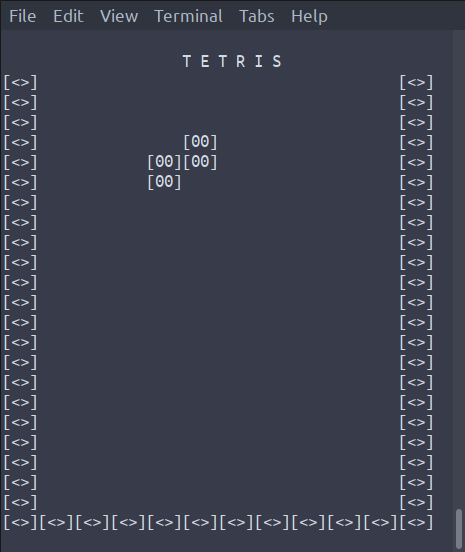
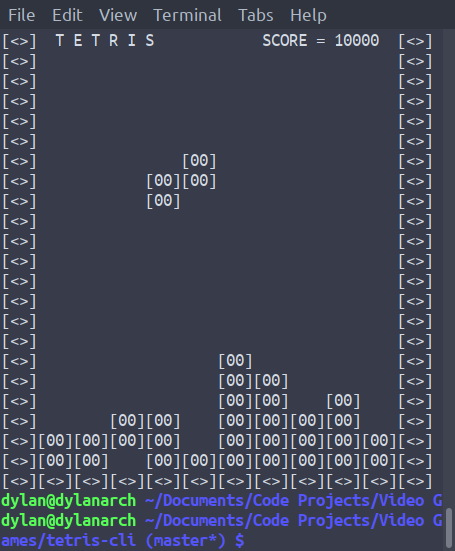
Added scoring and row deletion

diff --git a/src/game.c b/src/game.c
@@ -2,6 +2,7 @@
 #include <stdlib.h>
 #include <unistd.h>
 #include <time.h>
+#include <math.h>
 
 #include <tetromino.h>
 #include <canvas.h>
@@ -13,6 +14,7 @@ char        g_quit;
 canvas_t    g_canvas;
 float       g_fall_spd;
 int         g_fall_key_delay;
+int         g_score = 0;
 
 // Start a new game
 void play() {
@@ -26,7 +28,7 @@ void play() {
      * 
      * thus 40x20
      */
-    g_canvas = init_canvas((10 + 2) * SHAPE_WIDTH, 22 + 2);
+    g_canvas = init_canvas((10 + 2) * SHAPE_WIDTH, 22 + 1);
 
     // Draw a border around the screen
     char border[g_canvas.width * g_canvas.height];
@@ -36,6 +38,7 @@ void play() {
     char *clear_piece, *image_data;
     g_fall_spd = INITIAL_FALL;
     g_fall_key_delay = FALL_KEY_DELAY;
+    g_score = 0;
 
     while(!g_quit) {
         clear_piece = m_get_tetromino_clear_image(g_current_shape);
@@ -46,6 +49,7 @@ void play() {
         image_data = m_get_tetromino_image(g_current_shape);
         draw_image_to_canvas(&g_canvas, 0, 0, g_canvas.width, g_canvas.height, (char *) border);
         draw_image_to_canvas(&g_canvas, SHAPE_WIDTH * (g_current_shape.x - 2), g_current_shape.y - 2, SHAPE_WIDTH * 5, 5, image_data);
+        draw_score();
 
         print_canvas(g_canvas);
 
@@ -77,11 +81,13 @@ void update_piece() {
             if(can_move(DOWN))
                 g_current_shape.y++;
             else {
-                // Shape has landed
+                // Shape has landed                
                 // Save current shape
                 char *image_data = m_get_tetromino_image(g_current_shape);
                 draw_image_to_canvas(&g_canvas, SHAPE_WIDTH * (g_current_shape.x - 2), ((int) g_current_shape.y) - 2, SHAPE_WIDTH * 5, 5, image_data);
                 free(image_data);
+
+                check_rows();
 
                 // Select new shape
                 g_current_shape = select_shape();
@@ -102,9 +108,41 @@ void update_piece() {
         draw_image_to_canvas(&g_canvas, SHAPE_WIDTH * (g_current_shape.x - 2), ((int) g_current_shape.y) - 2, SHAPE_WIDTH * 5, 5, image_data);
         free(image_data);
 
+        check_rows();
+
         // Select new shape
         g_current_shape = select_shape();
         g_fall_key_delay = FALL_KEY_DELAY;
+    }
+}
+
+// Check for rows and delete them if full
+void check_rows() {
+    for(int y = 2; y < g_canvas.height - 1; y++) {
+        char row_full = 1;
+
+        for(int x = 4; x < g_canvas.width - 4; x++) {
+            if(g_canvas.draw_buffer[y * g_canvas.width + x] == ' ') {
+                row_full = 0;
+                break;
+            }
+        }
+
+        if(row_full) {                                              // YAY POINTS!!
+            // Update game speed and score
+            g_score++;
+            g_fall_spd += FALL_INC;
+
+            // Clear row
+            for(int x = 4; x < g_canvas.width - 4; x++)
+                g_canvas.draw_buffer[y * g_canvas.width + x] = ' ';
+
+            // bring all other rows down
+            for(int y2 = y; y2 >= 2; y2--) {
+                for(int x = 4; x < g_canvas.width - 4; x++)
+                    g_canvas.draw_buffer[y2 * g_canvas.width + x] = g_canvas.draw_buffer[(y2 - 1) * g_canvas.width + x];
+            }
+        }
     }
 }
 
@@ -233,7 +271,7 @@ char can_move(direction_t dir) {
 tetromino_t select_shape() {
     tetromino_t new_shape;
     new_shape.x = 5;
-    new_shape.y = 2;
+    new_shape.y = 3;
     new_shape.shape = rand() % 7;
 
     for(int i = 0; i < 4; i++) {
@@ -244,22 +282,46 @@ tetromino_t select_shape() {
     return new_shape;
 }
 
+void draw_score() {
+    g_canvas.draw_buffer[29] = 'S';
+    g_canvas.draw_buffer[30] = 'C';
+    g_canvas.draw_buffer[31] = 'O';
+    g_canvas.draw_buffer[32] = 'R';
+    g_canvas.draw_buffer[33] = 'E';
+    g_canvas.draw_buffer[35] = '=';
+
+    // Get the first 5 digits of the score
+    char digits[5];
+    int score = g_score;
+
+    for(int i = 0; i < 5; i++) {
+        digits[i] = (score % 10) + '0';
+        score /= 10;
+    }
+    
+    g_canvas.draw_buffer[37] = digits[4];
+    g_canvas.draw_buffer[38] = digits[3];
+    g_canvas.draw_buffer[39] = digits[2];
+    g_canvas.draw_buffer[40] = digits[1];
+    g_canvas.draw_buffer[41] = digits[0];
+}
+
 void setup_border(char *border, int size) {
     for(int i = 0; i < g_canvas.width * g_canvas.height; i++)
         border[i] = -1;
-    border[20] = 'T';
-    border[22] = 'E';
-    border[24] = 'T';
-    border[26] = 'R';
-    border[28] = 'I';
-    border[30] = 'S';
+    border[6] = 'T';
+    border[8] = 'E';
+    border[10] = 'T';
+    border[12] = 'R';
+    border[14] = 'I';
+    border[16] = 'S';
     for(int i = 0; i < g_canvas.width; i += 4) {
         border[(g_canvas.height - 1) * g_canvas.width + i] = '[';
         border[(g_canvas.height - 1) * g_canvas.width + i + 1] = '<';
         border[(g_canvas.height - 1) * g_canvas.width + i + 2] = '>';
         border[(g_canvas.height - 1) * g_canvas.width + i + 3] = ']';
     }
-    for(int i = 1; i < g_canvas.height - 1; i++) {
+    for(int i = 0; i < g_canvas.height - 1; i++) {
         border[i * g_canvas.width] = '[';
         border[i * g_canvas.width + 1] = '<';
         border[i * g_canvas.width + 2] = '>';

diff --git a/headers/game.h b/headers/game.h
@@ -5,7 +5,7 @@
 
 // Important game variables
 #define INITIAL_FALL    0.01
-#define FALL_DECREASE   0.001
+#define FALL_INC        0.001
 #define DELAY           10000    //us
 #define FALL_KEY_DELAY  50
 
@@ -17,6 +17,7 @@ void play();
 
 // Support functions for game
 void setup_border(char *border, int size);
+void draw_score();
 
 tetromino_t select_shape();
 void update_piece();
@@ -24,3 +25,5 @@ void update_piece();
 char can_move(direction_t dir);
 char can_rotate(direction_t dir);
 char overlap(char *data_a, char *canvas_chunk);
+
+void check_rows();
